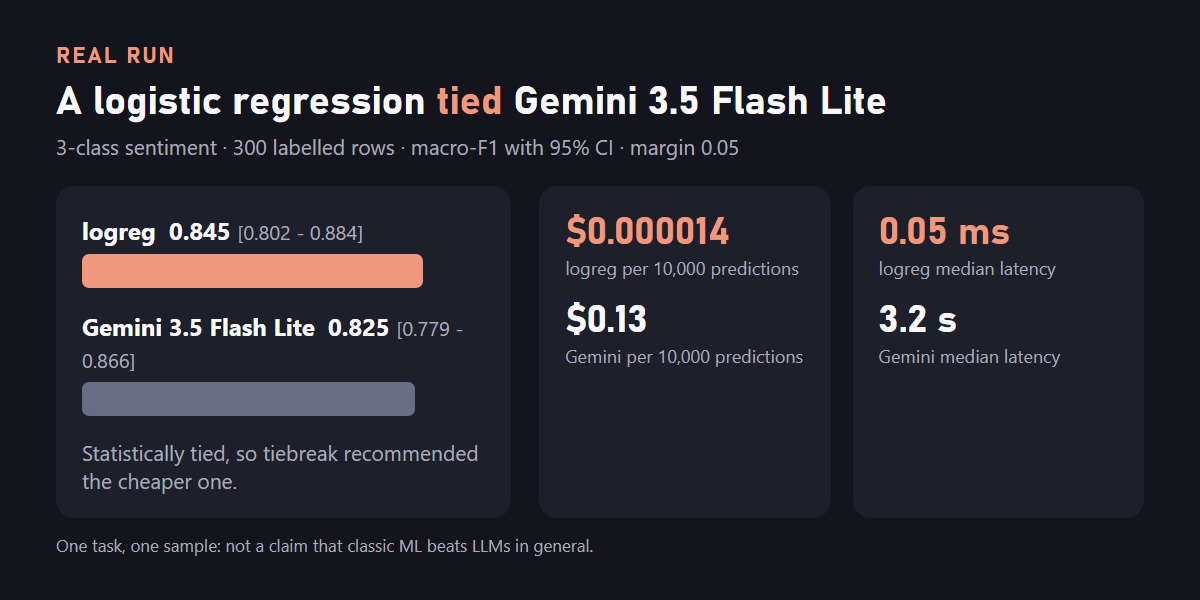
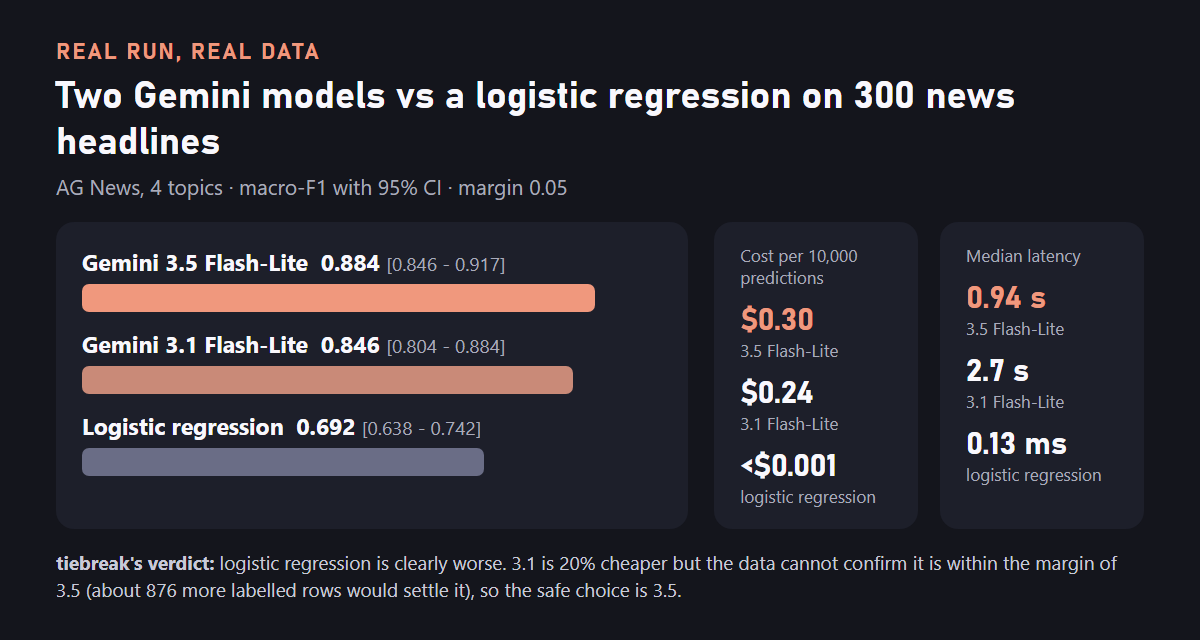
docs: replace the synthetic-data headline with a real AG News run on two Gemini Flash-Lite models

Changed region(s): [[0.0617, 0.36, 0.925, 0.84], [0.0308, 0.06, 0.8633, 0.33], [0.0308, 0.87, 0.925, 0.93]]

diff --git a/docs/reports/agnews-gemini.html b/docs/reports/agnews-gemini.html
@@ -1,0 +1,70 @@
+<!doctype html>
+<html lang="en"><head><meta charset="utf-8"><meta name="viewport" content="width=device-width, initial-scale=1">
+<title>tiebreak report</title>
+<style>
+body{font:15px/1.5 system-ui,sans-serif;max-width:900px;margin:2rem auto;padding:0 1rem;color:#1d2330}
+h1{font-size:1.5rem} h2{font-size:1.1rem;margin-top:2rem}
+.card{border:1px solid #d5dae3;border-radius:10px;padding:1rem 1.2rem;margin:1rem 0}
+.rec{background:#e9f7f1;border-color:#9fd8c3} .warn{background:#fff6e0;border-color:#f0d58a} .sim{background:#ffe9e9;border-color:#e8a0a0;font-weight:600}
+table{border-collapse:collapse;width:100%} th,td{padding:.4rem .6rem;border-bottom:1px solid #e3e6ec;text-align:right}
+th:first-child,td:first-child{text-align:left} .muted{color:#6a7385;font-size:.85rem}
+.tag{display:inline-block;padding:0 .5rem;border-radius:999px;background:#eef1f6;font-size:.8rem}
+</style></head><body>
+<h1>Which model should you use?</h1>
+
+
+<div class="card warn"><strong>Warnings</strong><ul><li>Score intervals are wider than the margin for: flash-lite-3.1, flash-lite-3.5, logreg. Collect more labelled examples before trusting small differences.</li><li>Make sure this sample resembles the data you will see in production; results only hold for similar data.</li></ul></div>
+
+
+<div class="card warn">
+  <strong>Safe choice: flash-lite-3.5 (cannot separate cheaper options yet)</strong>
+  <p>flash-lite-3.5 has the highest score and no cheaper candidate is confirmed within 0.05 of it. The data cannot separate these cheaper candidates from the best: flash-lite-3.1 (approximately 876 more labelled examples).</p>
+  <p>Not enough data to tell some cheaper candidates from the best: flash-lite-3.1.</p>
+  <p class="muted">Rule: the cheapest candidate whose score is confirmed (95% confidence, Holm-adjusted) to be no more than 0.05 below the best. "Not significantly different" is never treated as "tied". For classification the tie test is conservative when the models rarely disagree (a discordance guard), so it can ask for more examples rather than declare a tie.</p>
+</div>
+
+
+<h2>Score versus cost</h2>
+<div class="card"><svg xmlns="http://www.w3.org/2000/svg" viewBox="0 0 640 320" width="100%" role="img" aria-label="Score versus cost"><title>Score versus total cost</title><desc>Each candidate is a point: total cost at the expected volume on a log scale (horizontal) against score (vertical), with a vertical bar for its 95% interval. Candidates tied with the best are green.</desc><line x1="48" y1="272" x2="592" y2="272" stroke="#888"/><line x1="48" y1="48" x2="48" y2="272" stroke="#888"/><text x="320.0" y="310" text-anchor="middle" font-size="12" fill="#555">total cost at expected volume (log scale, $)</text><text x="14" y="160.0" font-size="12" fill="#555" transform="rotate(-90 14 160.0)" text-anchor="middle">score</text><line x1="48.0" y1="272.0" x2="48.0" y2="188.9" stroke="#5b6b8c" stroke-width="2"/><circle cx="48.0" cy="229.0" r="6" fill="#5b6b8c"/><text x="57.0" y="221.0" font-size="12" fill="#222">logreg</text><line x1="578.4" y1="138.8" x2="578.4" y2="74.7" stroke="#5b6b8c" stroke-width="2"/><circle cx="578.4" cy="105.2" r="6" fill="#5b6b8c"/><text x="587.4" y="97.2" font-size="12" fill="#222">flash-lite-3.1</text><line x1="592.0" y1="105.5" x2="592.0" y2="48.0" stroke="#0b7a5f" stroke-width="2"/><circle cx="592.0" cy="75.1" r="6" fill="#0b7a5f"/><text x="601.0" y="67.1" font-size="12" fill="#222">flash-lite-3.5</text></svg><p class="muted">Bars are 95% bootstrap intervals. Green marks candidates tied with the best. Only included candidates with a score are plotted. Cost is total at 10000 predictions, including amortised training.</p></div>
+
+<h2>Candidates</h2>
+<div class="card"><table>
+<tr><th scope="col">Candidate</th><th scope="col">Status</th><th scope="col">macro_f1</th><th scope="col">95% interval</th><th scope="col">Cost / 1k</th><th scope="col">Total at volume</th><th scope="col">Price source</th><th scope="col">p50 / p95 latency</th><th scope="col">Invalid</th><th scope="col">Errors</th><th scope="col">Unstable answers</th></tr>
+
+<tr><td>logreg <span class="tag">ml</span></td>
+<td>included</td>
+<td>0.692</td><td>0.638 to 0.742</td><td>$0.0000</td><td>$0.00</td><td>compute time</td><td>0.000s / 0.000s</td><td>0.0%</td><td>0.0%</td><td>21.0%</td></tr>
+
+<tr><td>flash-lite-3.1 <span class="tag">llm</span></td>
+<td>included</td>
+<td>0.846</td><td>0.804 to 0.884</td><td>$0.0237</td><td>$0.24</td><td>provider</td><td>2.727s / 11.151s</td><td>0.0%</td><td>0.0%</td><td>0.0%</td></tr>
+
+<tr><td>flash-lite-3.5 <span class="tag">llm</span></td>
+<td>included (tied)</td>
+<td>0.884</td><td>0.846 to 0.917</td><td>$0.0296</td><td>$0.30</td><td>provider</td><td>0.941s / 2.826s</td><td>0.0%</td><td>0.0%</td><td>0.0%</td></tr>
+</table>
+<p class="muted">Unstable answers = share of examples whose repeated answers disagreed (LLM: across repeats; ML: across cross-validation repeats).</p>
+<p class="muted">* price unknown: add the model to pricing.yaml. n/a = not available. Eliminated or excluded candidates are scored only on the examples they completed and are not part of the comparison. Latency is measured on this machine and network, not a provider benchmark.</p></div>
+
+<h2>Prices used</h2>
+<div class="card"><table><tr><th scope="col">Candidate</th><th scope="col">Model</th><th scope="col">Source</th><th scope="col">Price</th></tr>
+<tr><td>flash-lite-3.1</td><td>gemini-3.1-flash-lite</td><td>provider</td><td>reported by the provider per call</td></tr><tr><td>flash-lite-3.5</td><td>gemini-3.5-flash-lite</td><td>provider</td><td>reported by the provider per call</td></tr></table>
+<p class="muted">Prices as of the run date 2026-10-28. pricing.yaml prices are the ones you supplied; "provider" is the cost the provider reported per call; "compute time" is latency times your compute price per hour.</p></div>
+
+
+
+
+
+<h2>Diagnostics</h2>
+<div class="card">
+<p><strong>Suspected labelling mistakes:</strong>
+<span class="muted">example ids redacted</span>
+</p>
+<p><strong>Examples where candidates disagree:</strong> 96 <span class="muted">(ids redacted)</span></p>
+
+</div>
+
+
+<h2>Protocol</h2>
+<div class="card muted">300 scored examples; 1 LLM repeat(s); ML cross-validation 5 folds x 3; few-shot pool 0. Full details are in manifest.json and predictions.jsonl next to this file.</div>
+</body></html>

diff --git a/docs/index.html b/docs/index.html
@@ -32,6 +32,7 @@ a.plain{color:var(--ac)}
 <h1>The cheapest model that is statistically tied with the best.</h1>
 <p>These are the offline <code>report.html</code> files tiebreak produces. Each one is a real run on a 300-row public sample, except the demo, which uses simulated models and says so on its first line. One task and one sample each: they show what the output looks like, not which model is best in general.</p>
 
+<a class="card" href="reports/agnews-gemini.html"><span class="tag">Real run</span><b>AG News: two Gemini models vs a baseline</b><span>tiebreak says the cheaper Gemini model cannot be separated from the best, and why.</span></a>
 <a class="card" href="reports/agnews.html"><span class="tag">Real run</span><b>AG News: 4-class topics</b><span>scikit-learn models vs a small local LLM (Qwen3.5 0.8B).</span></a>
 <a class="card" href="reports/spam.html"><span class="tag">Real run</span><b>SMS spam: imbalanced binary</b><span>same candidates; 37 spam messages in 300.</span></a>
 <a class="card" href="reports/sentiment.html"><span class="tag">Real run</span><b>SST-2: movie-review sentiment</b><span>same candidates on balanced binary sentiment.</span></a>

diff --git a/examples/README.md b/examples/README.md
@@ -21,7 +21,7 @@ Task files: `agnews/`, `spam/`, `sentiment/`; candidates: `models.yaml`. All use
 ## What these runs show
 
 - **The winner changes with the task.** Classic ML won two tasks and the small LLM won the third. No single model is "best", which is the point of measuring.
-- **Nothing was tied.** In all three runs the best candidate was clearly ahead, so the recommendation is simply the best one. For a run where a cheaper model ties a more expensive one, see the logistic regression vs Gemini result in the main README.
+- **Nothing was tied.** In all three runs the best candidate was clearly ahead, so the recommendation is simply the best one. For a run where tiebreak says it cannot separate a cheaper model from the best, see the Gemini Flash-Lite run below.
 - **Early elimination works as designed.** On AG News and spam the LLM was far behind after 100 of 300 examples, so tiebreak stopped calling it. Its score covers those 100 examples only.
 - **The small LLM labels every SMS "spam".** On the first 100 messages it processed (15 spam, 85 ham) it answered "spam" every time, so 85 answers were wrong. That is real model behaviour with this prompt, not a parsing problem.
 
@@ -32,6 +32,20 @@ Task files: `agnews/`, `spam/`, `sentiment/`; candidates: `models.yaml`. All use
 - Only one small local LLM was tested. These runs say nothing about larger models.
 - The local LLM's cost is latency times a compute price per hour, so it is an estimate, not a bill.
 - Runs used a GTX 1650, so LLM latency (about 0.8 s median per call) is specific to that machine.
+
+## Gemini Flash-Lite on AG News (hosted models)
+
+Two hosted models and a baseline on the same 300 AG News headlines (`examples/gemini/models.yaml`, run with `--yes-send-data`; you supply your own `GEMINI_API_KEY`):
+
+| | macro-F1 (95% CI) | Cost per 10,000 predictions | Median latency |
+|---|---|---|---|
+| Gemini 3.5 Flash-Lite | **0.884** [0.846, 0.917] | $0.2956 | 0.94 s |
+| Gemini 3.1 Flash-Lite | 0.846 [0.804, 0.884] | $0.2374 | 2.73 s |
+| Logistic regression | 0.692 [0.638, 0.742] | $0.00004 | 0.13 ms |
+
+- **tiebreak's verdict was "inconclusive".** The logistic regression is clearly worse. Gemini 3.1 is about 20% cheaper, and its score is 0.038 below 3.5 (a separate paired bootstrap of the gap gives +0.016 to +0.063, against the 0.05 margin), so the data cannot confirm it is within the margin. tiebreak estimated about 876 more labelled examples to settle it and named 3.5 as the safe choice.
+- **The newer model wins where they differ.** The two disagree on 13 of 300 headlines; 3.5 is right on 12 of them.
+- **Caveats.** 300 rows, one task. Costs are the provider's list price for the tokens used (the free tier bills nothing). The free tier allows only 20 requests per day for Gemini 3 Flash, 3.6 Flash and 3.8 Flash, so they are not in this run; `examples/gemini/models-all.yaml` lists all five for a paid key.
 
 ## Judge example (prompts only)
 

diff --git a/README.md b/README.md
@@ -27,10 +27,10 @@
 **Which model should you use for your task?** tiebreak runs several candidate models (hosted LLM APIs, local LLMs via Ollama, and classic scikit-learn models) on a small labelled sample of *your* data and reports score, cost and latency with 95% confidence intervals. It then recommends the **cheapest model that is statistically tied with the best**, or says plainly that your data cannot separate the candidates and roughly how many more labelled examples would. Everything runs on your machine and produces a self-contained offline `report.html`.
 
 <p align="center">
-  <img src="https://raw.githubusercontent.com/mugil0095/tiebreak/master/docs/assets/real-run.png" alt="A real run: logistic regression (0.845) is statistically tied with Gemini 3.5 Flash Lite (0.825) at a tiny fraction of the cost and latency" width="860">
+  <img src="https://raw.githubusercontent.com/mugil0095/tiebreak/master/docs/assets/real-run.png" alt="A real run on 300 AG News headlines: logistic regression 0.692, Gemini 3.1 Flash-Lite 0.846, Gemini 3.5 Flash-Lite 0.884; tiebreak cannot separate the cheaper Gemini model from the best and names the newer one as the safe choice" width="860">
 </p>
 
-*A real run (not the simulated demo below): 300 labelled rows, 3-class sentiment, one hosted model against a scikit-learn baseline. One task and one sample, so this is an example of the output, not a claim that classic ML beats LLMs in general.*
+*A real run on real data (300 AG News headlines, 4 topics): two hosted Gemini Flash-Lite models against a logistic regression. The logistic regression is clearly worse. Gemini 3.1 Flash-Lite is about 20% cheaper than 3.5 but 0.038 F1 below it, and with 300 rows tiebreak cannot confirm it is within the 0.05 margin, so it says so (about 876 more labelled rows would settle it) and names 3.5 as the safe choice. One task and one sample; cost is the provider's list price (the free tier bills nothing).*
 
 ## Why tiebreak
 
@@ -79,7 +79,7 @@ pip install "tiebreak[llm,web,judge] @ git+https://github.com/mugil0095/tiebreak
 
 ## Real examples
 
-Three free, reproducible runs on public data (AG News, SMS spam, SST-2) with scikit-learn models and a small local LLM: the winner differs by task, and the LLM was eliminated early on two of them. See [`examples/`](examples/README.md) and the [sample reports](https://mugil0095.github.io/tiebreak/).
+Reproducible runs on public data (AG News, SMS spam, SST-2). With scikit-learn models and a small local LLM the winner differs by task, and the LLM was eliminated early on two of them. With two hosted Gemini Flash-Lite models on AG News, tiebreak said the cheaper one could not be separated from the best and asked for more labels (see the picture above). See [`examples/`](examples/README.md) and the [sample reports](https://mugil0095.github.io/tiebreak/).
 
 ## Use it on your data
 
